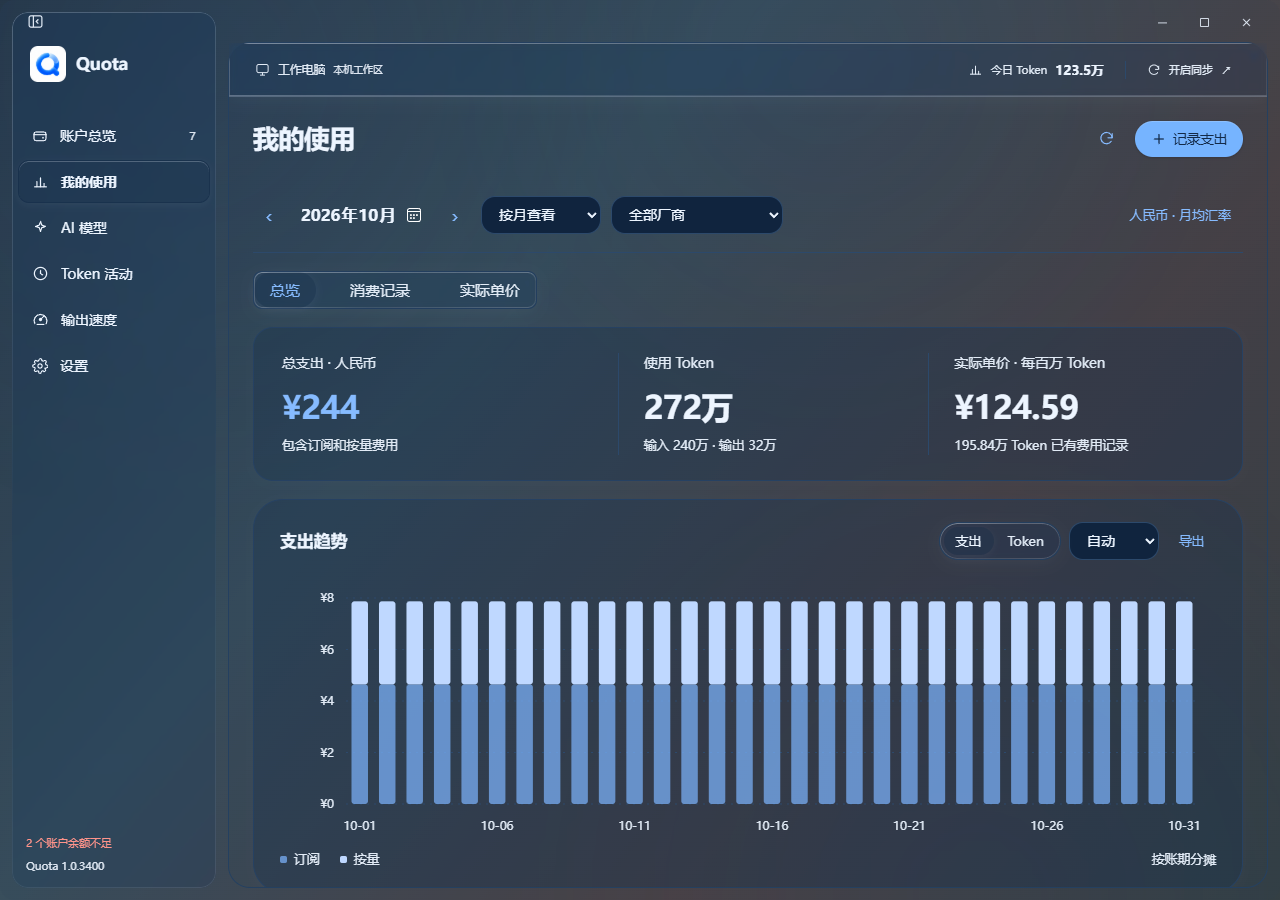
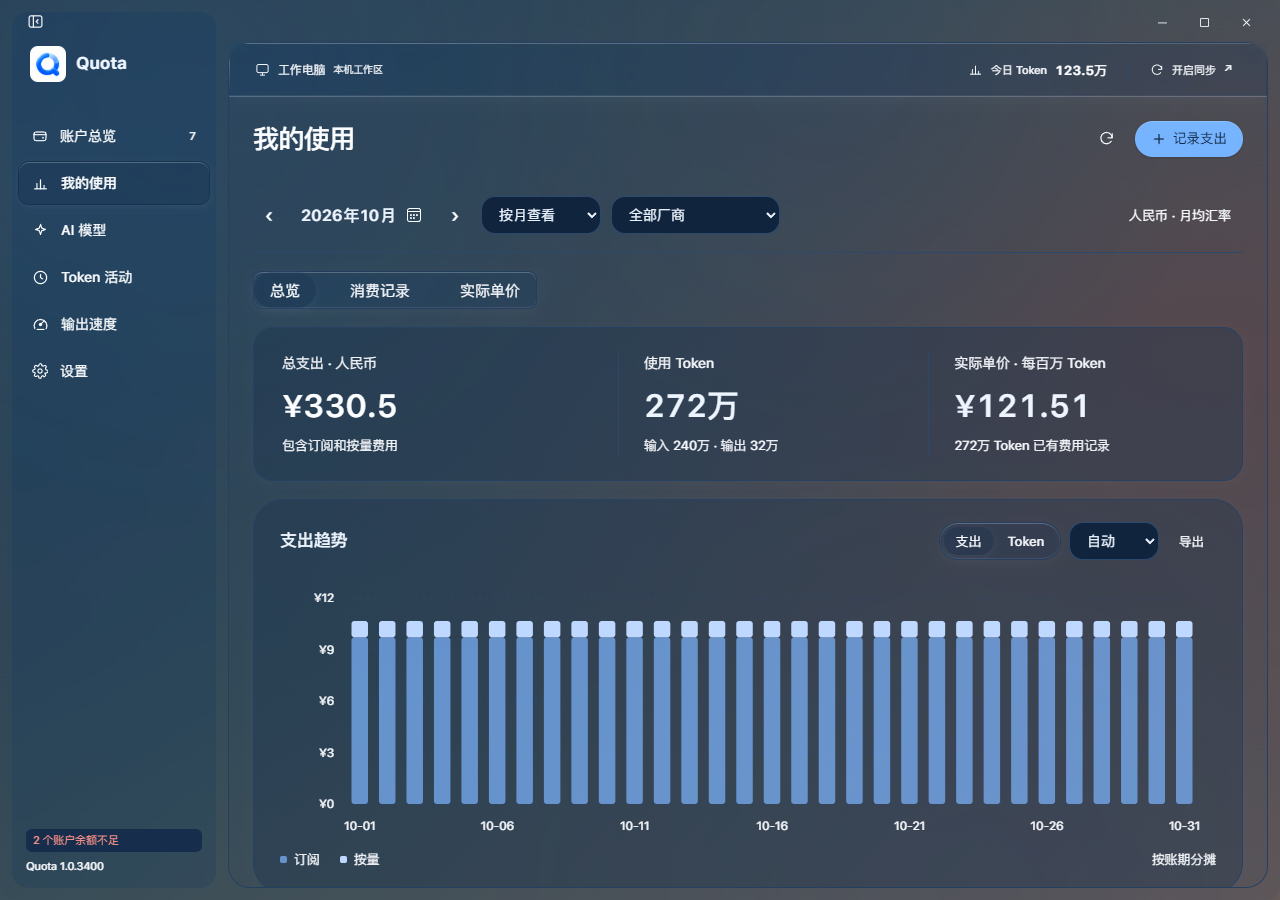
增强玻璃文字对比与高光渐隐，完善键盘和安装验证

diff --git a/src/lib/appearance.ts b/src/lib/appearance.ts
@@ -1,6 +1,7 @@
 import { useSyncExternalStore } from 'react';
 import { invoke } from '@tauri-apps/api/core';
 import { listen } from '@tauri-apps/api/event';
+import { initializeGlassMotion } from './glassMotion';
 
 export type ThemeId = 'codex' | 'claude' | 'vscode' | 'github' | 'quota';
 export type ColorMode = 'system' | 'light' | 'dark';
@@ -19,6 +20,7 @@ let snapshot=fallback;
 const listeners=new Set<()=>void>();
 let initialized=false;
 let materialRequest=0;
+let glassMotion:ReturnType<typeof initializeGlassMotion>|undefined;
 async function syncNativeMaterial(){
   if(new URLSearchParams(location.search).has('window'))return;
   const request=++materialRequest;
@@ -43,6 +45,8 @@ function apply() {
   const palette=THEMES.find(theme=>theme.id===snapshot.theme)![snapshot.resolved];
   const values:Record<string,string>={bg:palette.bg,'bg-sidebar':palette.sidebar,'bg-topbar':palette.workspace,surface:palette.surface,'surface-2':palette.workspace,'surface-3':palette.group,border:palette.border,'border-strong':palette.strong,text:palette.text,'text-2':palette.secondary,'text-3':palette.muted,blue:palette.accent,'blue-hover':palette.accent,'blue-press':palette.accent,'blue-soft':palette.soft,'on-blue':palette.onAccent,'seg-thumb':palette.surface,primary:palette.primary??palette.accent,'on-primary':snapshot.theme==='github'?'#ffffff':palette.onAccent,'brand-strong':palette.text,'seg-track':palette.group,fill:palette.group,'fill-strong':palette.border,'fill-press':palette.strong,'shadow-card':'0 1px 3px color-mix(in srgb, '+palette.text+' 4%, transparent)'};
   const dark=snapshot.resolved==='dark';
+  // Transparent material needs stronger ink, especially the muted editor theme.
+  values['glass-text']=dark?'color-mix(in srgb, '+palette.text+' 25%, #ffffff)':palette.text;
   const charts:Record<ThemeId,string[]>={quota:dark?['#7eb6ff','#bfd8ff','#63c4d1','#b6aaeb','#e0bc89','#91a7c4']:['#1478ec','#153e78','#389ca8','#8a7ac2','#bb9253','#a2b1c8'],codex:dark?['#eeeeee','#8ac1a7','#93b2ce','#c3b4a1','#b3a2c8','#879195']:['#303030','#438365','#6685a0','#a68e71','#8c799f','#a6ada9'],claude:dark?['#e4a183','#b6c79b','#caba8f','#a8bbc9','#d1a7b8','#a59f91']:['#b96043','#748764','#b1935b','#73899e','#b48392','#ada89b'],vscode:dark?['#4daafc','#4ec9b0','#c586c0','#dcdcaa','#ce9178','#8c9aa6']:['#007acc','#16856e','#a646aa','#9c831d','#aa5d36','#909da9'],github:dark?['#58a6ff','#3fb950','#bc8cff','#d29922','#ff7b72','#8b949e']:['#0969da','#1a7f37','#8250df','#9a6700','#cf222e','#8c959f']};
   charts[snapshot.theme].forEach((value,index)=>values[index===5?'chart-rest':`chart-${index+1}`]=value);
   Object.assign(values,{red:dark?'#ff938a':'#c4362f',amber:dark?'#f1c86a':'#8b5a00',green:dark?'#78cf9b':'#277943','switch-on':palette.primary??palette.accent,'red-soft':'color-mix(in srgb, var(--red) 12%, '+palette.surface+')','amber-soft':'color-mix(in srgb, var(--amber) 12%, '+palette.surface+')','green-soft':'color-mix(in srgb, var(--green) 12%, '+palette.surface+')','shadow-pop':dark?'0 18px 50px #00000070':'0 18px 50px #00000030'});
@@ -51,20 +55,13 @@ function apply() {
   document.documentElement.dataset.colorTheme=snapshot.theme;
   document.documentElement.dataset.colorMode=snapshot.resolved;
   document.documentElement.dataset.glass=snapshot.glass?'on':'off';
+  glassMotion?.refresh();
   void syncNativeMaterial();
   listeners.forEach(listener=>listener());
 }
 export function initializeAppearance() {
   if(initialized||typeof window==='undefined')return;
-  initialized=true;snapshot=read();apply();
-  let frame=0,latest:{surface:HTMLElement;x:number;y:number}|null=null;
-  document.addEventListener('pointermove',event=>{
-    if(!snapshot.glass||matchMedia('(prefers-reduced-motion: reduce)').matches)return;
-    const surface=(event.target as Element).closest<HTMLElement>('.sidebar,.workspace-toolbar,.seg');if(!surface)return;
-    latest={surface,x:event.clientX,y:event.clientY};if(frame)return;
-    frame=requestAnimationFrame(()=>{frame=0;if(!latest||!snapshot.glass||matchMedia('(prefers-reduced-motion: reduce)').matches)return;const {surface,x,y}=latest,rect=surface.getBoundingClientRect();surface.style.setProperty('--glass-x',Math.max(0,Math.min(rect.width,x-rect.left))+'px');surface.style.setProperty('--glass-y',Math.max(0,Math.min(rect.height,y-rect.top))+'px');});
-  },{passive:true});
-  document.addEventListener('pointerout',event=>{const surface=(event.target as Element).closest<HTMLElement>('.sidebar,.workspace-toolbar,.seg');if(surface&&!(event.relatedTarget instanceof Node&&surface.contains(event.relatedTarget))){surface.style.removeProperty('--glass-x');surface.style.removeProperty('--glass-y');if(latest?.surface===surface)latest=null;}},{passive:true});
+  initialized=true;snapshot=read();glassMotion=initializeGlassMotion(()=>snapshot.glass);apply();
   matchMedia('(prefers-color-scheme: dark)').addEventListener('change',apply);
   matchMedia('(forced-colors: active)').addEventListener('change',()=>void syncNativeMaterial());
   window.addEventListener('storage',event=>{if(event.key===KEY){snapshot=read();apply();}});

diff --git a/src/lib/glassMotion.ts b/src/lib/glassMotion.ts
@@ -1,0 +1,79 @@
+// A transient rim on the navigation layer. No animation loop runs while idle.
+export function initializeGlassMotion(isEnabled:()=>boolean) {
+  const reduced=matchMedia('(prefers-reduced-motion: reduce)');
+  const contrast=matchMedia('(forced-colors: active)');
+  const surfaces=new Map<HTMLElement,ReturnType<typeof setTimeout>|null>();
+  let pointer:HTMLElement|null=null,focus:HTMLElement|null=null;
+  let frame=0,latest:{surface:HTMLElement;x:number;y:number}|null=null;
+  const allowed=()=>isEnabled()&&!reduced.matches&&!contrast.matches&&!document.hidden;
+  const surfaceFor=(target:EventTarget|null)=>target instanceof Element?target.closest<HTMLElement>('.app .sidebar,.app .workspace-toolbar,.app .seg'):null;
+  const reset=(surface:HTMLElement)=>{
+    const timer=surfaces.get(surface);if(timer)clearTimeout(timer);
+    surfaces.delete(surface);
+    for(const name of ['--glass-x','--glass-y','--glass-glow'])surface.style.removeProperty(name);
+  };
+  const refresh=()=>{
+    if(allowed())return;
+    if(frame)cancelAnimationFrame(frame);
+    frame=0;latest=null;pointer=null;focus=null;
+    for(const surface of surfaces.keys())reset(surface);
+  };
+  const show=(surface:HTMLElement,x:number,y:number)=>{
+    const timer=surfaces.get(surface);if(timer)clearTimeout(timer);
+    surfaces.set(surface,null);
+    const rect=surface.getBoundingClientRect();
+    surface.style.setProperty('--glass-x',Math.max(0,Math.min(rect.width,x-rect.left))+'px');
+    surface.style.setProperty('--glass-y',Math.max(0,Math.min(rect.height,y-rect.top))+'px');
+    surface.style.setProperty('--glass-glow','1');
+  };
+  const showFocus=()=>{
+    const element=document.activeElement;
+    if(!focus||!(element instanceof HTMLElement)||!element.matches(':focus-visible'))return;
+    const rect=element.getBoundingClientRect();show(focus,rect.left+rect.width/2,rect.top+rect.height/2);
+  };
+  const fade=(surface:HTMLElement|null)=>{
+    if(!surface)return;
+    if(surface===focus){showFocus();return;}
+    const timer=surfaces.get(surface);if(timer)clearTimeout(timer);
+    surface.style.setProperty('--glass-glow','0');
+    // Keep the last light position while it fades; reset only after it is gone.
+    surfaces.set(surface,setTimeout(()=>reset(surface),220));
+  };
+  document.addEventListener('pointermove',event=>{
+    if(!allowed()||event.pointerType==='touch')return;
+    const surface=surfaceFor(event.target);if(!surface)return;
+    if(pointer!==surface){const previous=pointer;pointer=surface;fade(previous);}
+    latest={surface,x:event.clientX,y:event.clientY};if(frame)return;
+    frame=requestAnimationFrame(()=>{
+      frame=0;const point=latest;latest=null;
+      if(point&&point.surface===pointer&&point.surface.isConnected&&allowed())show(point.surface,point.x,point.y);
+    });
+  },{passive:true});
+  document.addEventListener('pointerout',event=>{
+    const surface=surfaceFor(event.target);
+    if(surface===pointer&&surface&&!(event.relatedTarget instanceof Node&&surface.contains(event.relatedTarget))){pointer=null;fade(surface);}
+  },{passive:true});
+  document.addEventListener('focusin',event=>{
+    const element=event.target,previous=focus;
+    focus=allowed()&&element instanceof Element&&element.matches(':focus-visible')?surfaceFor(element):null;
+    if(previous!==focus&&previous!==pointer)fade(previous);
+    if(focus)showFocus();
+  });
+  document.addEventListener('focusout',()=>{
+    queueMicrotask(()=>{
+      if(!focus)return;
+      const active=document.activeElement;
+      if(active instanceof Element&&focus.contains(active)&&active.matches(':focus-visible'))return;
+      const previous=focus;focus=null;if(previous!==pointer)fade(previous);
+    });
+  });
+  const clear=()=>{
+    if(frame)cancelAnimationFrame(frame);
+    frame=0;latest=null;pointer=null;focus=null;
+    for(const surface of surfaces.keys())reset(surface);
+  };
+  window.addEventListener('blur',clear);
+  document.addEventListener('visibilitychange',refresh);
+  reduced.addEventListener('change',refresh);contrast.addEventListener('change',refresh);
+  return {refresh};
+}

diff --git a/src/glass.css b/src/glass.css
@@ -9,7 +9,9 @@ html[data-glass="on"] {
 html[data-glass="on"][data-native-glass="on"],
 html[data-glass="on"][data-native-glass="on"] body,
 html[data-glass="on"][data-native-glass="on"] #root {background:transparent!important;}
-html[data-glass="on"] .app {background:transparent;--text-2:color-mix(in srgb,var(--text) 95%,var(--surface));--text-3:color-mix(in srgb,var(--text) 93%,var(--surface));}
+html[data-glass="on"] .app {background:transparent;--text:var(--glass-text);--text-2:color-mix(in srgb,var(--text) 97%,var(--surface));--text-3:color-mix(in srgb,var(--text) 97%,var(--surface));}
+html[data-glass="on"] .app .btn-quiet,html[data-glass="on"] .app .seg button.active,html[data-glass="on"] .usage-kpis section:first-child strong {color:var(--text);}
+html[data-glass="on"] .sidebar-alert {background:var(--surface);border-radius:6px;padding:3px 7px;}
 html[data-glass="on"] .glass-backdrop {background:linear-gradient(135deg,var(--bg),color-mix(in srgb,var(--surface) 82%,var(--blue-soft)));}
 html[data-glass="on"] .glass-backdrop i {opacity:.22;filter:blur(38px);}
 html[data-glass="on"][data-native-glass="on"] .glass-backdrop {background:color-mix(in srgb,var(--surface) 5%,transparent);}
@@ -31,6 +33,7 @@ html[data-glass="on"] .sidebar .nav-item,html[data-glass="on"] .workspace-toolba
 html[data-glass="on"] .sidebar .nav-item.active {font-weight:600;}
 html[data-glass="on"] .sidebar::after,html[data-glass="on"] .workspace-toolbar::after,html[data-glass="on"] .app .seg::after {
   content:"";position:absolute;inset:0;padding:1px;border-radius:inherit;pointer-events:none;
+  opacity:var(--glass-glow,0);transition:opacity 180ms var(--motion-ease);
   background:radial-gradient(ellipse at var(--glass-x,30%) var(--glass-y,0%),var(--glass-rim),color-mix(in srgb,var(--surface) 8%,transparent) 62%,color-mix(in srgb,var(--surface) 28%,transparent));
   mask:linear-gradient(var(--surface) 0 0) content-box,linear-gradient(var(--surface) 0 0);mask-composite:exclude;
   -webkit-mask:linear-gradient(var(--surface) 0 0) content-box,linear-gradient(var(--surface) 0 0);-webkit-mask-composite:xor;
@@ -48,7 +51,7 @@ html[data-glass="on"] .widget-panel::before {
   box-shadow:inset 1.5px 1.5px 1px var(--glass-rim),inset 0 -1.5px 1px color-mix(in srgb,var(--surface) 65%,transparent);
 }
 html[data-color-mode="dark"][data-glass="on"] .widget-panel::before {background:linear-gradient(140deg,color-mix(in srgb,var(--surface) 92%,transparent),color-mix(in srgb,var(--surface) 80%,transparent));border-color:var(--border-strong);}
-@media(prefers-reduced-motion:reduce) {html[data-glass="on"] .sidebar::after,html[data-glass="on"] .workspace-toolbar::after,html[data-glass="on"] .app .seg::after {background:linear-gradient(145deg,var(--glass-rim),transparent 50%,var(--glass-shade));}}
+@media(prefers-reduced-motion:reduce) {html[data-glass="on"] .sidebar::after,html[data-glass="on"] .workspace-toolbar::after,html[data-glass="on"] .app .seg::after {opacity:1;transition:none;background:linear-gradient(145deg,var(--glass-rim),transparent 50%,var(--glass-shade));}}
 @media(forced-colors:active) {
   html[data-glass="on"][data-window="main"],html[data-glass="on"][data-window="main"] body,html[data-glass="on"][data-window="main"] #root {background:var(--bg)!important;}
   html[data-glass="on"] .glass-backdrop {display:none;}

diff --git a/src/App.tsx b/src/App.tsx
@@ -131,7 +131,7 @@ export default function App() {
 
         <div className="sidebar-foot">
           {lowCount > 0 ? (
-            <div style={{ color: "var(--red, #d70015)", marginBottom: 6 }}>
+            <div className="sidebar-alert" style={{ color: "var(--red, #d70015)", marginBottom: 6 }}>
               {lowCount} 个账户余额不足
             </div>
           ) : null}

diff --git a/docs/liquid-glass-1.0.3400.md b/docs/liquid-glass-1.0.3400.md
@@ -10,7 +10,7 @@
 
 - 原生材质成功后才清空根背景；不可用时保留可读回退，关闭开关恢复原有实底。
 - Windows材质保留最低明暗底色，配合更深的文字，保证复杂背景上仍能阅读。
-- 导航使用细边缘折射与指针高光；高光逐帧合并更新，移出立即复位，不移动正文和图表。减少动效时保持静止。
+- 导航使用细边缘折射与指针高光；高光逐帧合并更新，移出渐隐后复位，不移动正文和图表。减少动效时保持静止。
 - 原生材质按修订同步并缓存，忽略旧请求；高对比度会关闭原生透明合成。
 - 主窗口材质与任务悬浮窗分开；悬浮窗继续保留已验证的透明画布及单一裁剪表面。
 
@@ -18,6 +18,9 @@
 
 ## 验证进度
 
+- 第二轮补充：指针移出时高光从最后位置渐隐，快速移回可打断；键盘聚焦会照亮对应控件。滚动和高光不改变内容几何，关闭玻璃、失焦、高对比度与减少动效均清理待执行的交互。
+- 五种主题的浅色/深色、设置/我的使用，在黑、白、蓝和混合背景上完成3,480项文字对比检查。按源码原生着色值模拟背板，正常文字达到4.5、大文字达到3的测试门槛；这是受控渲染器检查，不代表实际桌面合成截图或完整无障碍认证。只增强前景文字与局部状态底色，未增加整窗遮罩。
+- 第二轮安装包已完成1.0.3400同版本覆盖，向导、8秒启动、主程序/Loader哈希及5份个人数据保留通过；实际安装版在隔离资料下通过高光渐隐、键盘聚焦和原生材质/任务窗检查。普通应用已重新打开并保持运行10秒。原生高光检查等待启动遮罩结束，避免把遮罩截获的指针事件误判为材质故障。
 - TypeScript、前端构建、Rust examples类型检查和纯逻辑7/7通过。
 - 清透材质专项检查通过透明根层、薄背景、内容层不重复模糊、深浅色、高对比度、开关恢复、原生不可用回退、指针复位、减少动效及折射像素变化。
 - 我的使用、账户表单、模型天梯、速度散点、五套明暗主题和1024/1360布局回归通过。
@@ -37,10 +40,10 @@
 
 ## 产物
 
-安装包`Quota_1.0.3400_x64-setup.exe`，3,988,726字节。
+安装包`Quota_1.0.3400_x64-setup.exe`，3,989,757字节。此为第二轮本地候选；保留首轮安装包用于回退。
 
 ```text
-SHA-256 1b6ac4af34b1227070801a362179da61277a129aff2b6e716b97ada7799da2bd
+SHA-256 beb35286c5b7ba9762b218b941006f3c79b1e4597e4135ddefb54aac1c225ea4
 ```
 
 个人资料不用于测试；未推送或公开发布。

diff --git a/README.md b/README.md
@@ -88,7 +88,7 @@ macOS 包采用临时签名，尚未进行 Apple Developer ID 签名和公证；
 
 默认 Quota 使用白色内容区、淡蓝侧栏和深蓝强调色，与 Logo 保持一致。Codex、Claude、VS Code、GitHub 配色分别保留灰阶、暖色、编辑器分区与清晰边线的特点，均支持明暗和跟随系统。
 
-「设置 → 外观 → 液态玻璃」开启主窗口透明合成、边缘折射和指针高光，默认关闭。Windows使用系统材质透出模糊处理后的桌面背景，导航保持清透，内容使用薄色层；关闭开关恢复实底。高对比度关闭透明合成，减少动效时高光保持静止。任务悬浮窗保留独立的裁剪材质。
+「设置 → 外观 → 液态玻璃」开启主窗口透明合成、边缘折射和指针高光，默认关闭。高光随交互渐入渐出，键盘聚焦也有对应反馈。Windows使用系统材质透出模糊处理后的桌面背景，导航保持清透，内容使用薄色层；关闭开关恢复实底。高对比度关闭透明合成，减少动效时高光保持静止。任务悬浮窗保留独立的裁剪材质。
 
 实现参考 [Apple材质指南](https://developer.apple.com/design/human-interface-guidelines/materials)，把光学效果集中在导航与交互层，避免多层磨砂叠加。
 
